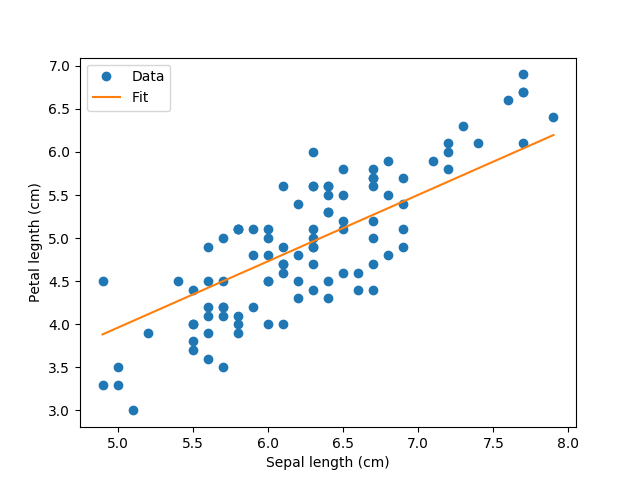
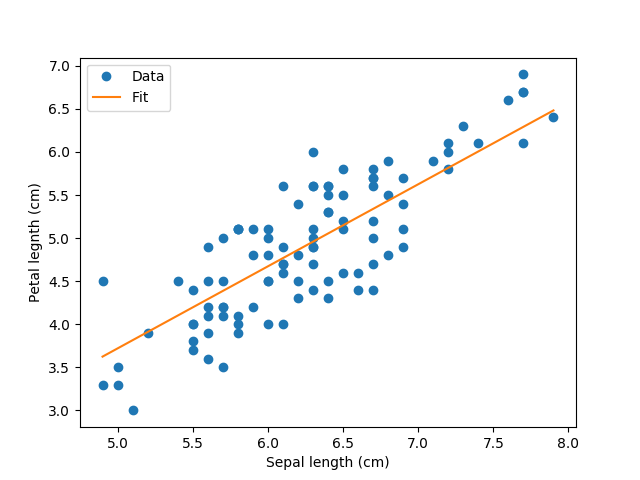
Initial commit

diff --git a/iris_linreg_np.py b/iris_linreg_np.py
@@ -34,7 +34,7 @@ def compute_gradients(x, W, b, y):
 
 # Hyperparameters
 learning_rate = 0.01
-num_epochs    = 100
+num_epochs    = 1000
 
 # Starting values
 W = 0.0
@@ -46,7 +46,7 @@ for epoch in range(num_epochs):
     W -= learning_rate * grads[0]
     b -= learning_rate * grads[1]
 
-    if (epoch+1) % 10 == 0:
+    if (epoch+1) % 100 == 0:
         loss = compute_loss(x_data, W, b, y_data)
         print("After {} epochs, loss = {}".format(epoch+1, loss))
 
@@ -74,4 +74,4 @@ plt.xlabel("Sepal length (cm)")
 plt.ylabel("Petal legnth (cm)")
 
 # Save figure
-plt.savefig('figs/iris_linreg_np.pdf')
+plt.savefig('figs/iris_linreg_np.png')

diff --git a/iris_linreg_tf.py b/iris_linreg_tf.py
@@ -31,7 +31,7 @@ loss = 0.5 * tf.reduce_mean(tf.square(y_pred - y))
 
 # Hyperparameters
 learning_rate = 0.01
-num_epochs    = 100
+num_epochs    = 10000
 
 # Optimizer
 optimizer = tf.train.GradientDescentOptimizer(learning_rate)
@@ -46,7 +46,7 @@ feed_dict = {x: x_data, y: y_data}
 for epoch in range(num_epochs):
     sess.run(train_op, feed_dict)
 
-    if (epoch+1) % 10 == 0:
+    if (epoch+1) % 1000 == 0:
         current_loss = sess.run(loss, feed_dict)
         print("After {} epochs, loss = {}".format(epoch+1, current_loss))
 

diff --git a/mnist_cnn.py b/mnist_cnn.py
@@ -150,4 +150,4 @@ predicted_label = predict([image])[0]
 plt.imshow(image.reshape((28, 28)), cmap='gray')
 plt.title("True label: {}, predicted: {}"
           .format(label.argmax(), predicted_label))
-plt.savefig('figs/mnist_cnn_prediction.pdf')
+plt.savefig('figs/mnist_cnn_prediction.png')
